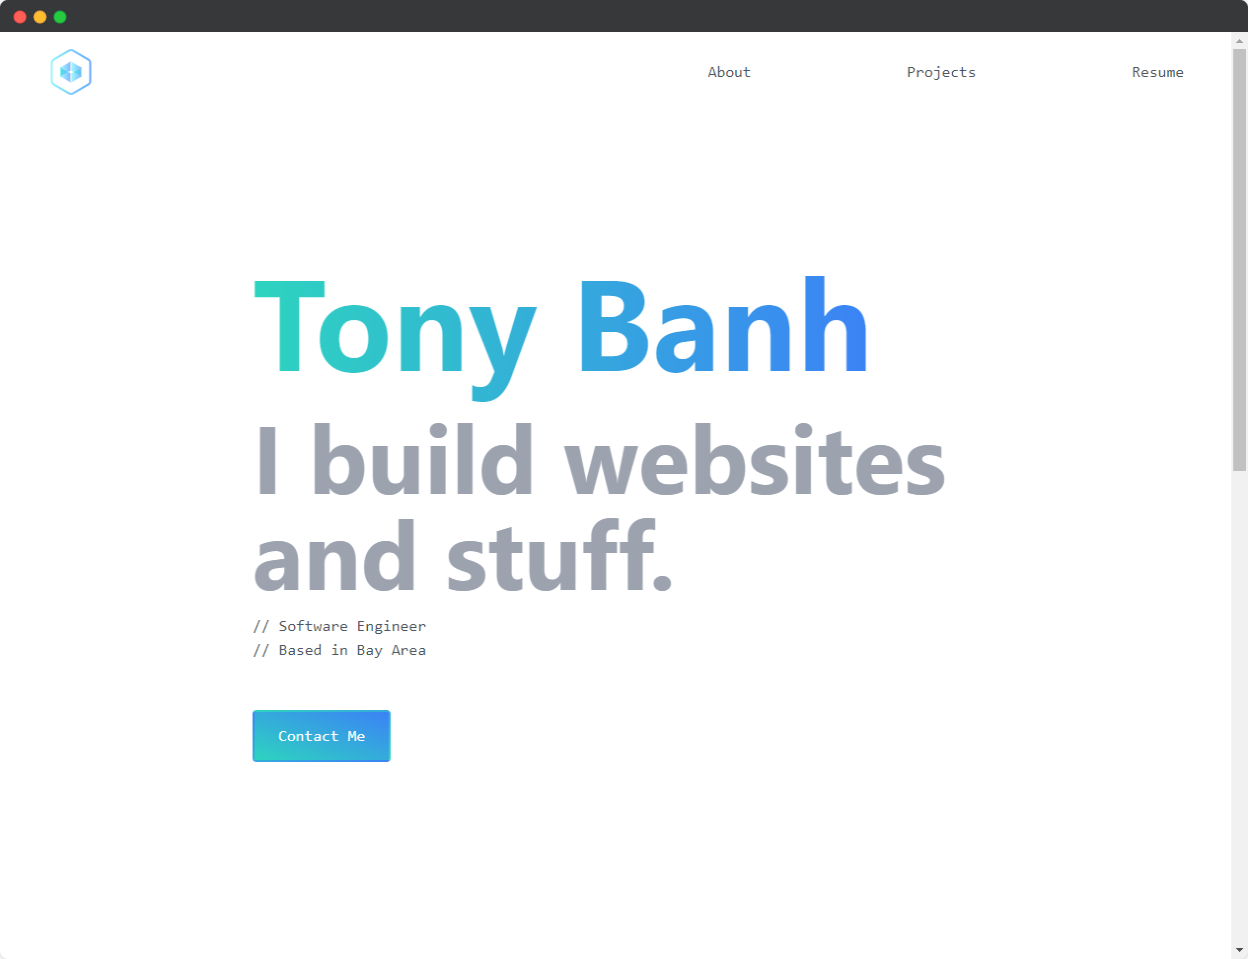
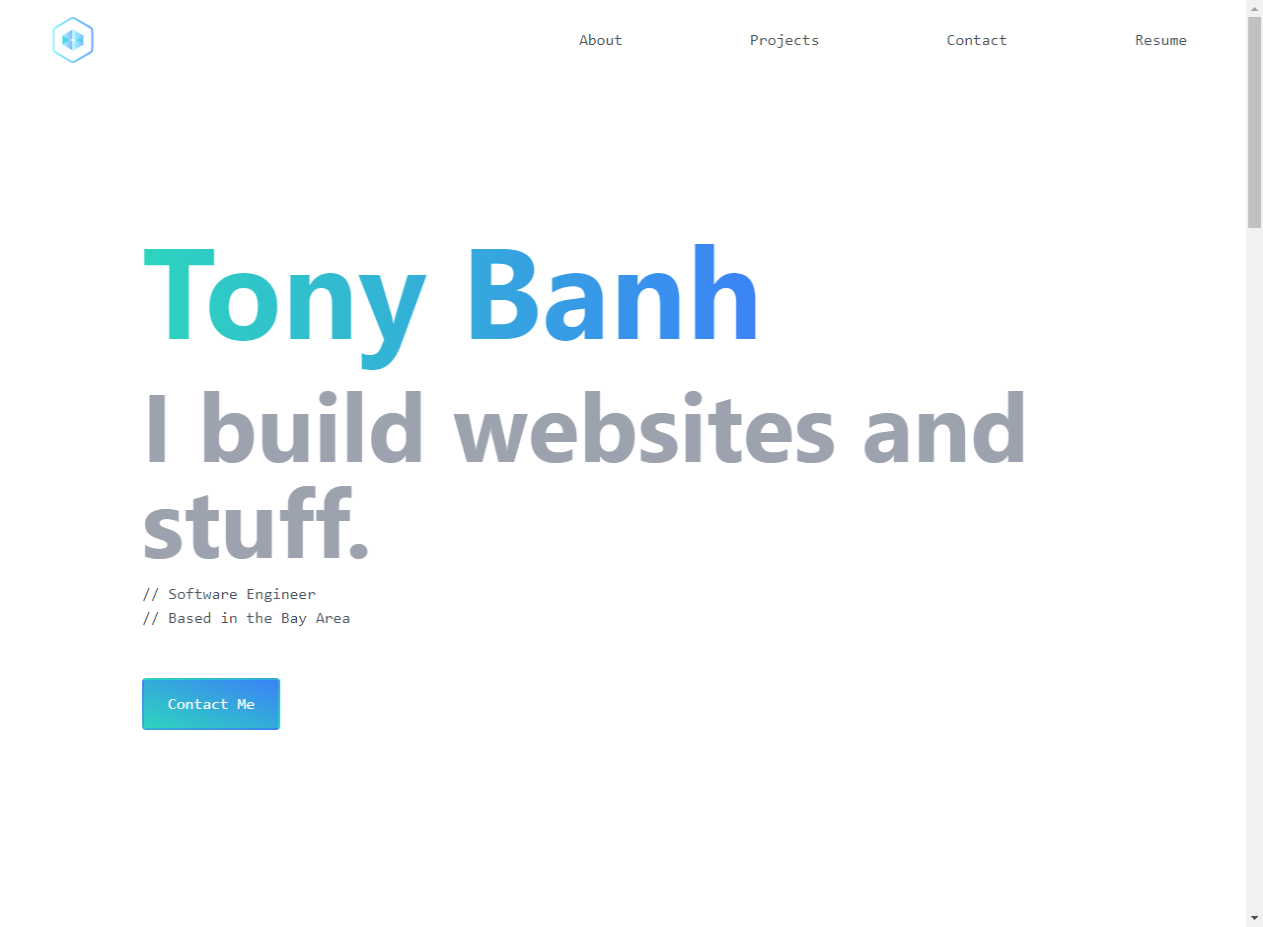
Optimize according to lighthouse report

diff --git a/src/components/Project.js b/src/components/Project.js
@@ -22,7 +22,7 @@ const Project = ({ name, description, builtWith, img, yearCreated, links }) => {
 			<div className="
             p-10
             z-10
-            rounded-xl
+            rounded
             text-white
             bg-gray-900
 
@@ -57,9 +57,9 @@ const Project = ({ name, description, builtWith, img, yearCreated, links }) => {
 				<ul className="flex flex-wrap font-mono my-2">
 					{builtWith.map((tech, i) => {
 						return (
-							<span className="mr-4" key={i}>
+							<li className="mr-4" key={i}>
 								{tech}
-							</span>
+							</li>
 						);
 					})}
 				</ul>
@@ -98,23 +98,46 @@ const Project = ({ name, description, builtWith, img, yearCreated, links }) => {
                 lg:opacity-60
                 lg:transition-opacity
                 lg:duration-150
-                lg:shadow-xl
-                lg:rounded
-                lg:overflow-hidden
                 lg:hover:opacity-100
                 lg:focus:opacity-100
                 lg:max-w-md
+                lg:relative
                 ">
 					<img
 						className="
                     object-contain
+                    h-auto
                     w-full
-                    h-full
+                    relative
+                    z-20
+                    rounded
+                    border-2
+                    border-solid
+                    border-lightBlue-600
+                    shadow-xl
                     "
 						src={img}
 						alt={`image of ${name} project`}
+						width="1280"
+						height="927"
 						loading="lazy"
 					/>
+					<div className="
+                    h-full
+                    w-full
+                    absolute
+                    top-0
+                    left-0
+                    z-0
+                    rounded
+                    border-2
+                    border-solid
+                    border-lightBlue-600
+                    transform
+                    -translate-y-2
+                    translate-x-2
+                    shadow-xl
+                    " />
 				</div>
 			</div>
 		</div>

diff --git a/src/components/IntroSection.js b/src/components/IntroSection.js
@@ -25,7 +25,12 @@ const IntroSection = () => {
 
 				<div
 					data-scroll
-					className="text-4xl font-bold text-gray-400 pb-4 delay-300
+					className="
+				text-gray-500
+				text-4xl
+				font-bold
+				pb-4
+				delay-300
 				sm:text-5xl
 				md:text-6xl
 				lg:text-7xl
@@ -44,7 +49,11 @@ const IntroSection = () => {
 					</p>
 				</div>
 				<div data-scroll className="mt-12 delay-700">
-					<Button href={`mailto:${email}`} target="_blank">
+					<Button
+						href={`mailto:${email}`}
+						target="_blank"
+						rel="nofollow noopener noreferrer"
+					>
 						Contact Me
 					</Button>
 				</div>

diff --git a/styles/globals.css b/styles/globals.css
@@ -3,6 +3,9 @@
 @tailwind utilities;
 
 @layer base {
+	body {
+		@apply font-sans text-gray-600 font-medium
+	}
 	h1 {
 		@apply text-5xl font-bold bg-clip-text bg-gradient-to-r from-teal-400 to-blue-500 text-transparent sm:text-6xl md:text-7xl lg:text-8xl xl:text-9xl;
 	}
@@ -19,7 +22,7 @@
 		@apply text-9xl font-mono font-bold bg-clip-text bg-gradient-to-r from-teal-400 to-blue-500 text-transparent;
 	}
 	.error-desc {
-		@apply text-3xl font-bold text-gray-400 pb-4;
+		@apply text-3xl font-bold pb-4;
 	}
 	.section-y {
 		@apply py-section;

diff --git a/src/components/ContactSection.js b/src/components/ContactSection.js
@@ -31,7 +31,11 @@ const ContactSection = () => {
 					</p>
 
 					<div className="my-12">
-						<Button href={`mailto:${email}`} target="_blank">
+						<Button
+							href={`mailto:${email}`}
+							target="_blank"
+							rel="nofollow noopener noreferrer"
+						>
 							Let's Talk!
 							{"\u{1F44B}"}
 						</Button>

diff --git a/src/components/AboutSection.js b/src/components/AboutSection.js
@@ -38,7 +38,10 @@ const AboutSection = () => {
 					md:mt-0
 					md:col-span-2
 					">
-						<img src="/avatar.svg" alt="avatar" loading="lazy" />
+						<img className="
+						w-full
+						h-auto
+						" width="100" height="100" src="/avatar.svg" alt="avatar" loading="lazy" />
 					</div>
 				</div>
 			</div>

diff --git a/pages/_document.js b/pages/_document.js
@@ -1,0 +1,17 @@
+import Document, { Html, Head, Main, NextScript } from "next/document";
+
+class MyDocument extends Document {
+	render() {
+		return (
+			<Html lang="en">
+				<Head />
+				<body>
+					<Main />
+					<NextScript />
+				</body>
+			</Html>
+		);
+	}
+}
+
+export default MyDocument;

diff --git a/src/components/NavbarList.js b/src/components/NavbarList.js
@@ -133,6 +133,7 @@ const NavbarList = (props) => {
 					) : (
 						<NavItem
 							target="_blank"
+							rel="nofollow noopener noreferrer"
 							ref={(el) => (navItemsRef.current[i] = el)}
 							href={nav.url}
 							onClick={() => props.setIsOpen(false)}

diff --git a/src/components/Footer.js b/src/components/Footer.js
@@ -6,7 +6,7 @@ const Footer = () => {
     ">
         <span>Built by Tony Banh</span>
         {" | "}
-        <span className="highlight">2020</span>
+        <span className="font-mono font-bold">2020</span>
     </div> );
 }
 

diff --git a/pages/index.js b/pages/index.js
@@ -38,7 +38,7 @@ const Home = () => {
 	}, []);
 
 	return (
-		<div className="font-sans text-gray-600 font-medium">
+		<div>
 			<CustomHead />
 			<Header />
 			<main className="

diff --git a/src/components/IconWrapper.js b/src/components/IconWrapper.js
@@ -3,6 +3,7 @@ const IconWrapper = (props) => {
 		<a
 			{...props}
 			target="_blank"
+			rel="noopener noreferrer"
 			className="
                 w-12
                 h-12
